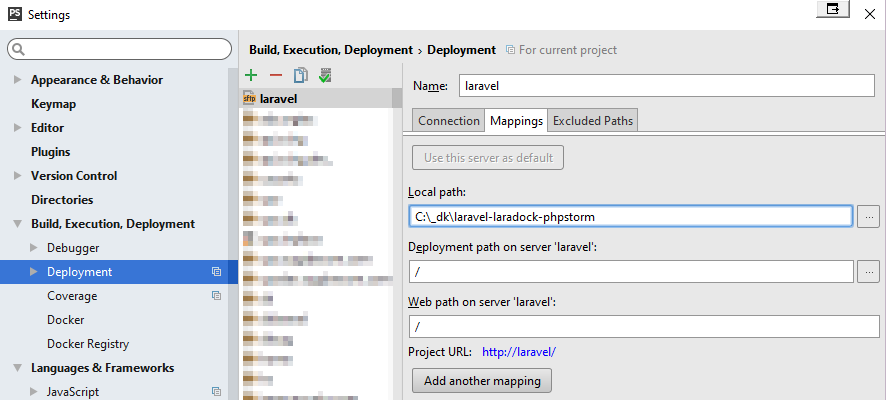
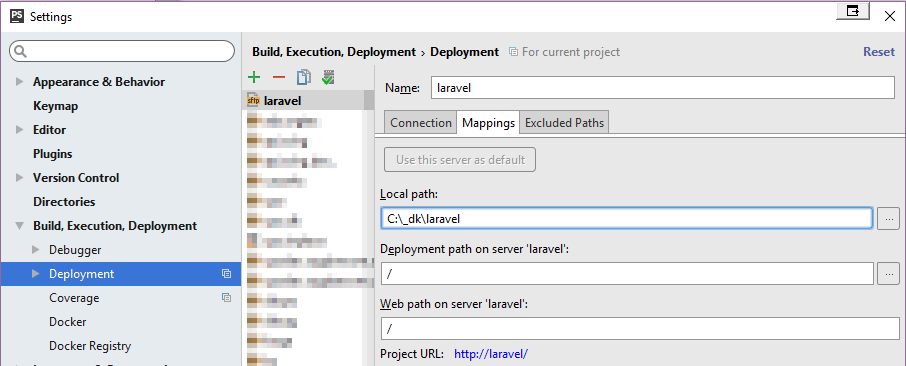
New pics

diff --git a/_guides/phpstorm.md b/_guides/phpstorm.md
@@ -153,31 +153,35 @@ Assuming that you are in laradock folder.
     - ![ConnectionData](photos/KiTTY/ConnectionData.png)
     - ![ConnectionSSH](photos/KiTTY/ConnectionSSH.png)
     - ![ConnectionSSHAuth](photos/KiTTY/ConnectionSSHAuth.png)
+    - ![TerminalShell](photos/KiTTY/TerminalShell.png)
 
 
 <a name="InstallPHPStorm"></a>
 ### PHPStorm
 PHPStorm is available as an [Early Access Program](https://confluence.jetbrains.com/display/PhpStorm/PhpStorm+Early+Access+Program). Which means it is free of charge if you don't mind an occasional bump in the road. It's been rock-solid for me.
 
-- File/New Project
-![New Project Dialog Box](photos/PHPStorm/NewProjectDialogBox.png)
-`dockerhost` was added to `etc/hosts` and points to `Docker Host IP`.
-
-
-    - ![Create From Existing Sources](photos/PHPStorm/NewProjectCreateFromExistingSources.png)
 
 
 <a name="InstallPHPStormConfigs"></a>
 #### Configs
 - Here are some settings that work:
+    - `Settings/BuildDeploymentConnection`
+        - ![Settings/BuildDeploymentConnection](photos/PHPStorm/Settings/BuildDeploymentConnection.png)
+    
     - `Settings/BuildDeploymentConnectionMappings`
         - ![Settings/BuildDeploymentConnectionMappings](photos/PHPStorm/Settings/BuildDeploymentConnectionMappings.png)
     
-    - `Settings/DeploymentConnection`
-        - ![Settings/DeploymentConnection](photos/PHPStorm/Settings/DeploymentConnection.png)
+    - `Settings/BuildDeploymentDebugger`
+        - ![Settings/BuildDeploymentDebugger](photos/PHPStorm/Settings/BuildDeploymentDebugger.png)
     
-    - `Settings/DeploymentMappings`
-        - ![Settings/DeploymentMappings](photos/PHPStorm/Settings/DeploymentMappings.png)
+    - `Settings/EditRunConfigurationRemoteWebDebug`
+        - ![Settings/EditRunConfigurationRemoteWebDebug](photos/PHPStorm/Settings/EditRunConfigurationRemoteWebDebug.png)
+    
+    - `Settings/EditRunConfigurationRemoteExampleTestDebug`
+        - ![Settings/EditRunConfigurationRemoteExampleTestDebug](photos/PHPStorm/Settings/EditRunConfigurationRemoteExampleTestDebug.png)
+    
+    - `Settings/LangsPHPDebug`
+        - ![Settings/LangsPHPDebug](photos/PHPStorm/Settings/LangsPHPDebug.png)
     
     - `Settings/LangsPHPInterpreters`
         - ![Settings/LangsPHPInterpreters](photos/PHPStorm/Settings/LangsPHPInterpreters.png)
@@ -185,15 +189,31 @@ PHPStorm is available as an [Early Access Program](https://confluence.jetbrains.
     - `Settings/LangsPHPPHPUnit`
         - ![Settings/LangsPHPPHPUnit](photos/PHPStorm/Settings/LangsPHPPHPUnit.png)
     
-    - `Settings/EditRunConfigurations`
-        - ![Settings/EditRunConfigurations](photos/PHPStorm/Settings/EditRunConfigurations.png)
-    
     - `Settings/LangsPHPServers`
         - ![Settings/LangsPHPServers](photos/PHPStorm/Settings/LangsPHPServers.png)
     
     - `RemoteHost`
         To switch on this view, go to: `Menu/Tools/Deployment/Browse Remote Host`.
         - ![RemoteHost](photos/PHPStorm/RemoteHost.png)
+        
+    - `RemoteWebDebug`
+        - ![DebugRemoteOn](photos/PHPStorm/DebugRemoteOn.png)
+
+    - `EditRunConfigurationRemoteWebDebug`
+        Go to: `Menu/Run/Edit Configurations`.
+        - ![EditRunConfigurationRemoteWebDebug](photos/PHPStorm/Settings/EditRunConfigurationRemoteWebDebug.png)
+
+    - `EditRunConfigurationRemoteExampleTestDebug`
+        Go to: `Menu/Run/Edit Configurations`.
+        - ![EditRunConfigurationRemoteExampleTestDebug](photos/PHPStorm/Settings/EditRunConfigurationRemoteExampleTestDebug.png)
+
+    - `WindowsFirewallAllowedApps`
+        Go to: `Control Panel\All Control Panel Items\Windows Firewall\Allowed apps`.
+        - ![WindowsFirewallAllowedApps.png](photos/PHPStorm/Settings/WindowsFirewallAllowedApps.png)
+
+    - `hosts`
+        Edit: `C:\Windows\System32\drivers\etc\hosts`.
+        - ![WindowsFirewallAllowedApps.png](photos/PHPStorm/Settings/hosts.png)
 
 
 <a name="Usage"></a>
